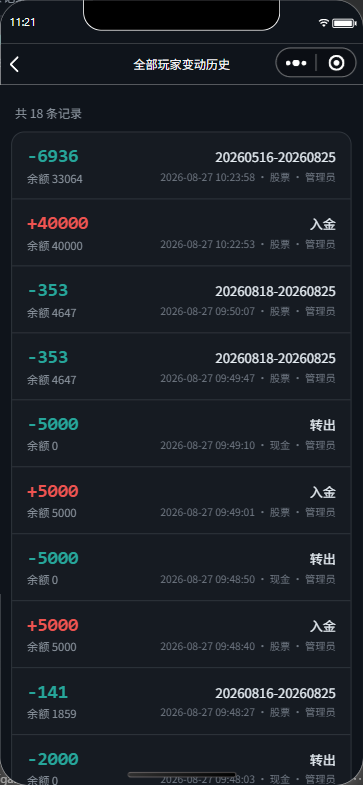
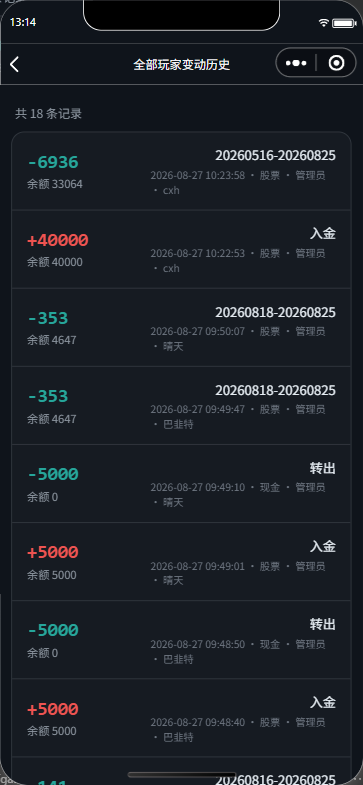
feat: 变动历史详情标注操作对象（时间·分组·管理员·用户）；余额页支持下拉刷新确保最新汇总

diff --git a/pages/game/dashboard/dashboard.js b/pages/game/dashboard/dashboard.js
@@ -37,6 +37,12 @@ Page({
     this.loadMe();
   },
 
+  // 下拉刷新：重新拉取最新余额（管理员=汇总）与图表
+  async onPullDownRefresh() {
+    await this.loadMe();
+    wx.stopPullDownRefresh();
+  },
+
   // 拉取最新用户信息；token 失效时 request 会自动跳登录页
   async loadMe() {
     try {

diff --git a/pages/game/history/history.js b/pages/game/history/history.js
@@ -71,6 +71,7 @@ Page({
         remark: t.remark,
         groupName: t.group_name || '',
         operator: t.operator_nickname || t.operator_username || '',
+        playerName: t.player_nickname || t.player_username || '',
         timeText: (t.created_at || '').replace('T', ' ').slice(0, 19)
       }));
       this.setData({
